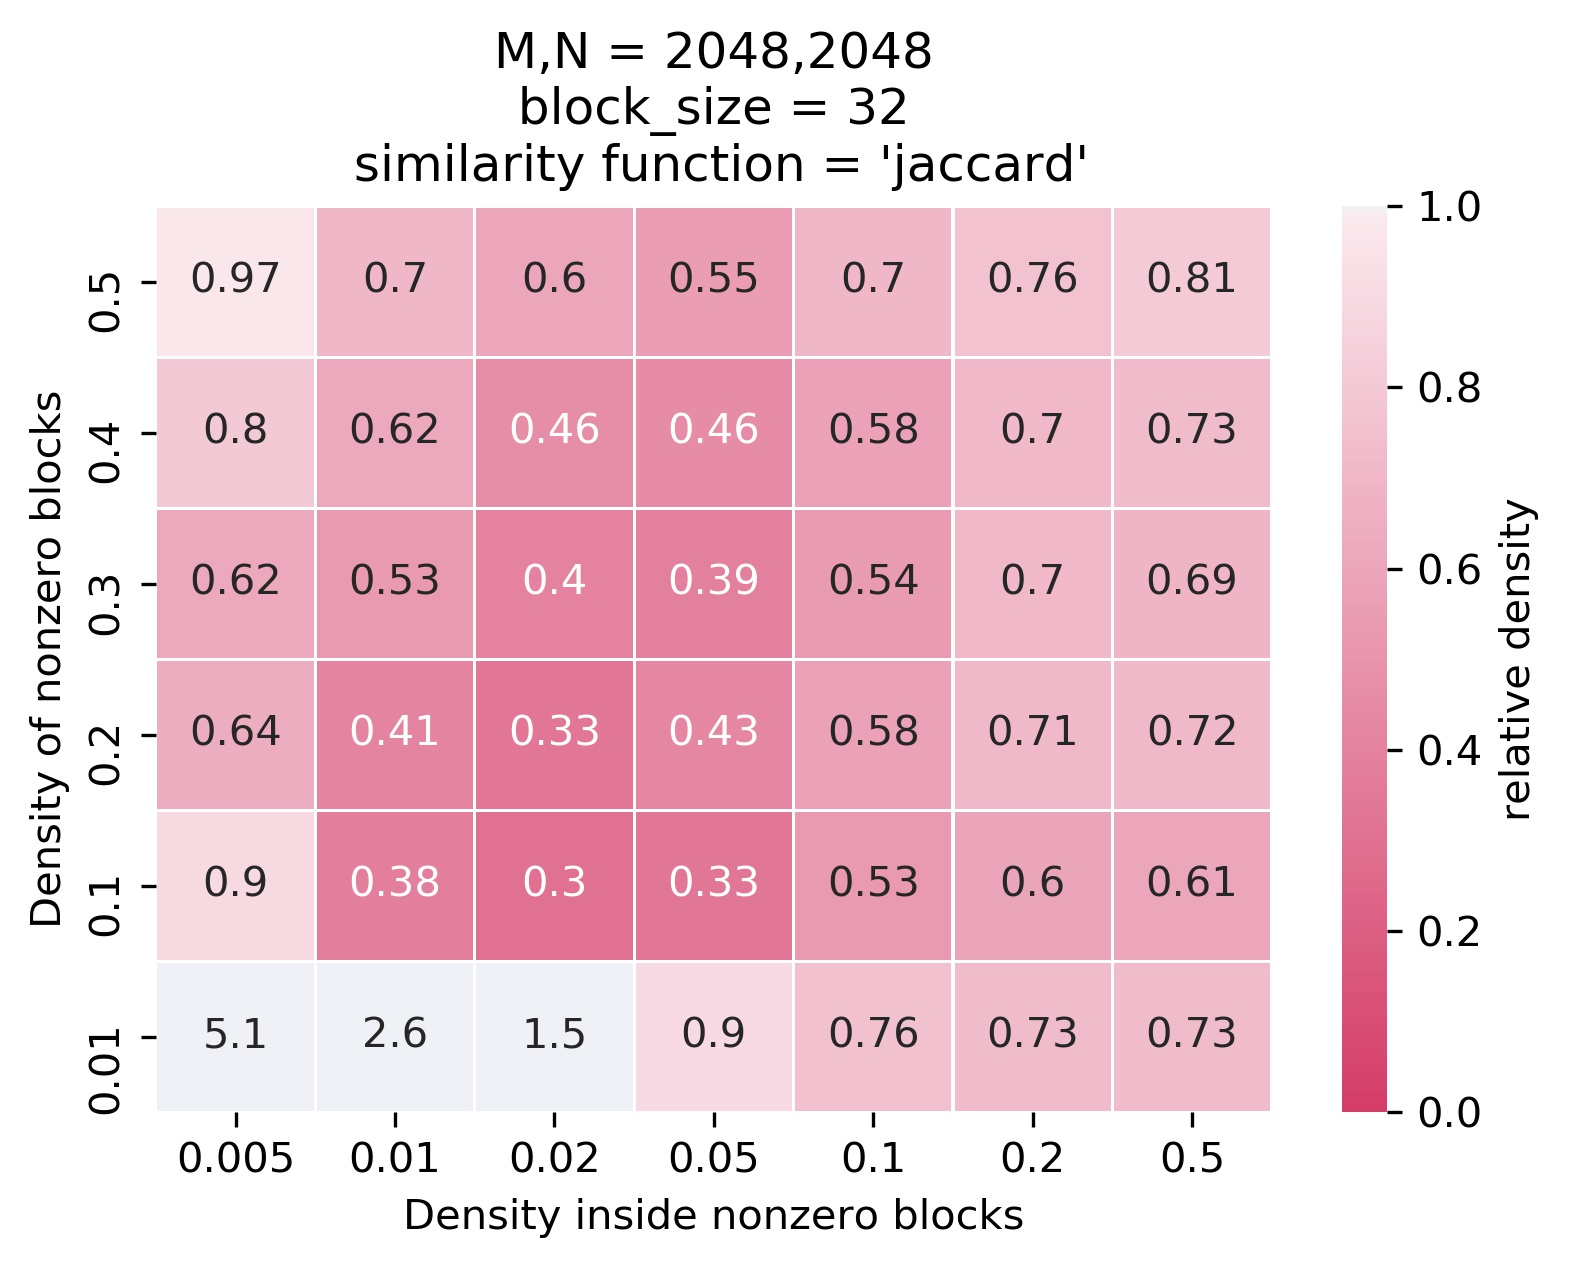
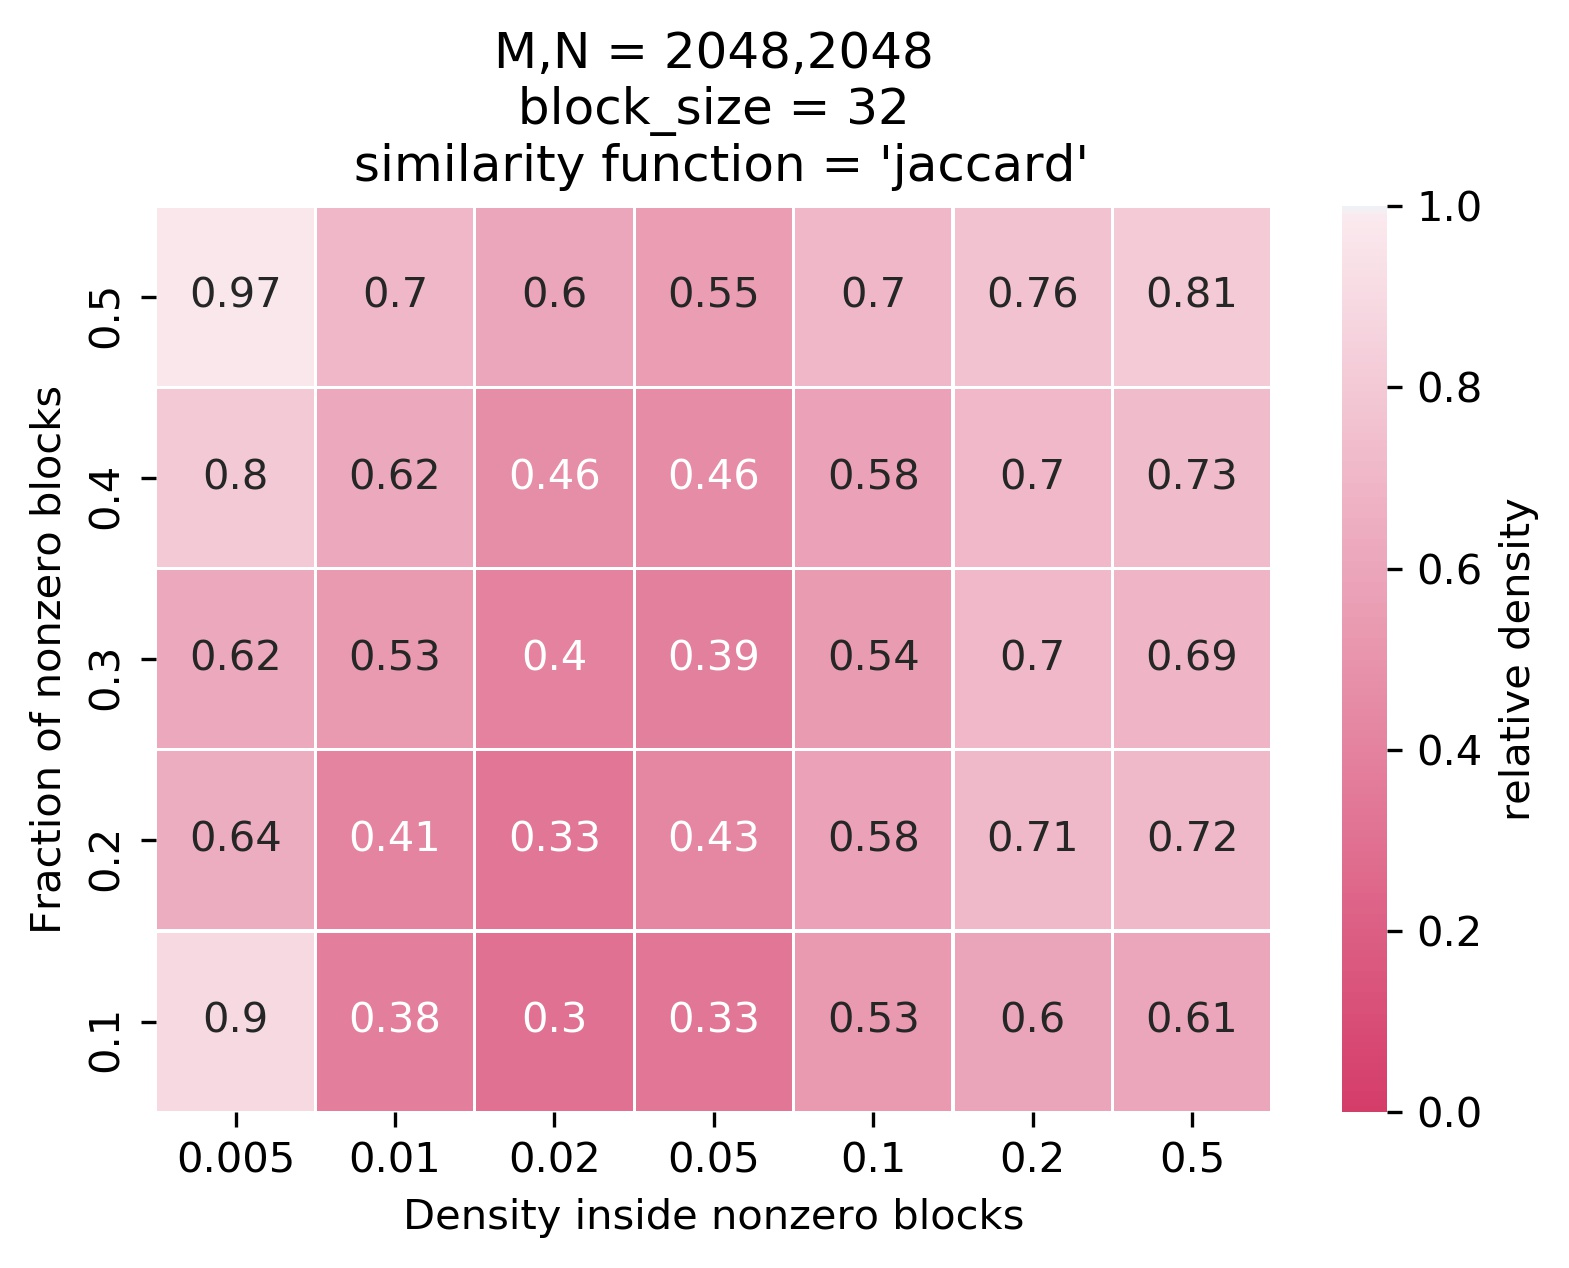
added images

diff --git a/Pyhton_scripts/SPARTA_reorder_analysis_pandas.py b/Pyhton_scripts/SPARTA_reorder_analysis_pandas.py
@@ -14,13 +14,20 @@ import numpy as np
 import seaborn as sns
 from scipy import interpolate
 
+
+saad = True
+if saad:
+    input_file = "../results/test_reordering_blocked_synth_2_saad.csv"
+else:
+    input_file = "../results/test_reordering_blocked_synth_2.csv"
+
                     
 if __name__ == "__main__":
 
     parser = argparse.ArgumentParser(
         description="Makes images from experiments")
     
-    parser.add_argument("--input-csv", default="../results/test_reordering_blocked_synth_2.csv",
+    parser.add_argument("--input-csv", default="../results/test_reordering_blocked_synth_2_saad.csv",
         help="file that contains the already run experiments")
     parser.add_argument("--output-dir", default="../images/",
         help="directory where the images are saved")
@@ -100,6 +107,7 @@ results_df["output_in_block_density"] = results_df.apply(lambda x: x['total_nonz
 
 results_df["relative_density"] = results_df.apply(lambda x: x['output_in_block_density']/x["input_entries_density"], axis=1)
 
+results_df = results_df[results_df["input_blocks_density"] != 0.01]
 
 to_display = ["input_entries_density",
               "input_blocks_density",
@@ -110,25 +118,11 @@ to_display = ["input_entries_density",
               "epsilon",
               "similarity_func",
               "scramble",
+              "hierarchic_merge"
         ]
 
 for var in to_display:
     print(var, results_df[var].unique());
-
-
-
-fixed = {
-        "input_entries_density": "0.5",
-              "input_blocks_density": "0.5",
-              "rows": "2048",
-              "cols": "2048",
-              "input_block_size":"64",
-              "algo_block_size":"64",
-              "epsilon": "any",
-              "similarity_func":"'scalar'",
-              "scramble": "1"
-}
-
 
 def build_query(fixed):
     #build a query from the fixed dictionary
@@ -140,26 +134,64 @@ def build_query(fixed):
     return q;
 
 
-q = build_query(fixed)
-results_df.query(q).size
-results_df.query(q).plot(x = "VBS_avg_nzblock_height", y = "relative_density", kind = "scatter");
-plt.grid(b=True, which='major', color='#666666', linestyle='-', alpha=0.4)
-plt.minorticks_on()
-plt.grid(b=True, which='minor', color='#999999', linestyle='-', alpha=0.2, linewidth=0.5)
-plt.xlim(10,85)
-plt.ylim(0.8,1.05)
-plt.title("Reordering a scrambled blocked matrix (zoom in)")
-#plt.axvline(64, alpha = 0.2, color = "red")
-plt.xlabel("Average height of nonzero blocks");
-plt.ylabel("Average density of nonzero blocks \n (relative to original blocking)");
-plt.savefig(output_dir + "example_block_curve_detail.jpg", format = 'jpg', dpi=300, bbox_inches = "tight")
 
 
+def reorder_curve(rows = 2048, cols = 2048, block_size = 64, i_density = 0.1, b_density = 0.1, similarity = "'scalar'", save_folder = "../images/reorder_curve/", name = "reorder_curve", saad = False):
+    fixed = {
+        "input_entries_density": i_density,
+        "input_blocks_density": b_density,
+        "rows": str(rows),
+        "cols": str(cols),
+        "input_block_size": str(block_size),
+        "algo_block_size": str(block_size),
+        "epsilon": "any",
+        "similarity_func": similarity,
+        "scramble": "1"
+    }
+    
+    if saad: fixed["algo_block_size"] = 1;
+
+    fixed
+    q = build_query(fixed)
+    results_df.query(q).plot(x = "VBS_avg_nzblock_height", y = "relative_density", kind = "scatter");
+    plt.grid(b=True, which='major', color='#666666', linestyle='-', alpha=0.4)
+    plt.minorticks_on()
+    plt.grid(b=True, which='minor', color='#999999', linestyle='-', alpha=0.2, linewidth=0.5)
+    plt.xlim(0,1000)
+    plt.ylim(0,2)
+    plt.axvline(block_size, alpha = 0.2, color = "red")
+    plt.axhline(1, alpha = 0.2, color = "red")
+    plt.title("M,N = {},{}\n block_size = {} \n density inside nonzero blocks = {} \n fraction of nonzero-blocks = {} \n similarity function = {}".format(cols,rows,block_size,  i_density, b_density, similarity))
+    plt.xlabel("Average height of nonzero blocks");
+    plt.ylabel("Average density inside nonzero blocks \n (relative to original blocking)");
+    
+    savename = save_folder + name + "_r{}_c{}_b{}_d{}_bd{}_{}.jpg".format(cols,rows,block_size,  i_density, b_density, similarity);
+
+    plt.savefig(savename, format = 'jpg', dpi=300, bbox_inches = "tight")
+    plt.show()
+    plt.close()
+    
+    
+if saad:
+    name = "saad_reorder_curve"    
+else:
+    name = "reorder_curve";
+    
+for cols in [2048,]:
+    for rows in [2048,]:
+        for block_size in [32,64]:
+            for i_density in [0.01, 0.05, 0.1, 0.3]:
+                for b_density in [0.1,0.2,0.3,0.4,0.5]:
+                    for similarity in ["'scalar'","'jaccard'"]:
+                        try:
+                            reorder_curve(cols,rows,block_size, i_density, b_density, similarity, name = "reorder_curve", saad = saad);
+                        except:
+                            print("could not make image for cols = {}, rows = {}, block_size = {}".format(cols,rows,block_size))
 
 #TODO interpolate to find best density for given size. Produce heatmap
 
 
-def reorder_heatmap(rows = 2048, cols = 2048, block_size = 64, similarity = "'scalar'", save_folder = "../images/reorder_landscape/"):
+def reorder_heatmap(rows = 2048, cols = 2048, block_size = 64, similarity = "'scalar'", save_folder = "../images/reorder_landscape/", name = "reorder_heatmap", saad = False):
     
     
     fixed = {
@@ -174,6 +206,7 @@ def reorder_heatmap(rows = 2048, cols = 2048, block_size = 64, similarity = "'sc
               "scramble": "1"
     }
 
+    if saad: fixed["algo_block_size"] = 1;
     
     heatmap_array = []
     for input_blocks_density in results_df["input_blocks_density"].unique():
@@ -205,10 +238,10 @@ def reorder_heatmap(rows = 2048, cols = 2048, block_size = 64, similarity = "'sc
     bottom, top = ax.get_ylim()
     ax.set_ylim(bottom + 0.5, top - 0.5)
     plt.xlabel("Density inside nonzero blocks") 
-    plt.ylabel("Density of nonzero blocks");
+    plt.ylabel("Fraction of nonzero blocks");
     
     plt.title("M,N = {},{}\n block_size = {} \n similarity function = {}".format(cols,rows,block_size, similarity))
-    savename = save_folder + "reorder_heatmap_r{}_c{}_b{}_{}.jpg".format(rows, cols, block_size, similarity);
+    savename = save_folder + name + "_r{}_c{}_b{}_{}.jpg".format(rows, cols, block_size, similarity);
     plt.savefig(savename, format = 'jpg', dpi=300, bbox_inches = "tight")
     plt.show()
     
@@ -217,9 +250,9 @@ def reorder_heatmap(rows = 2048, cols = 2048, block_size = 64, similarity = "'sc
 for cols in [2048,]:
     for rows in [2048,]:
         for block_size in [16,32,64]:
-            for similarity in ["'scalar'", "'jaccard'"]:
+            for similarity in ["'scalar'","'jaccard'"]:
                 try:
-                    reorder_heatmap(cols,rows,block_size, similarity);
+                    reorder_heatmap(cols,rows,block_size, similarity, name = "reorder_heatmap");
                 except:
                     print("could not make image for cols = {}, rows = {}, block_size = {}".format(cols,rows,block_size))
 
